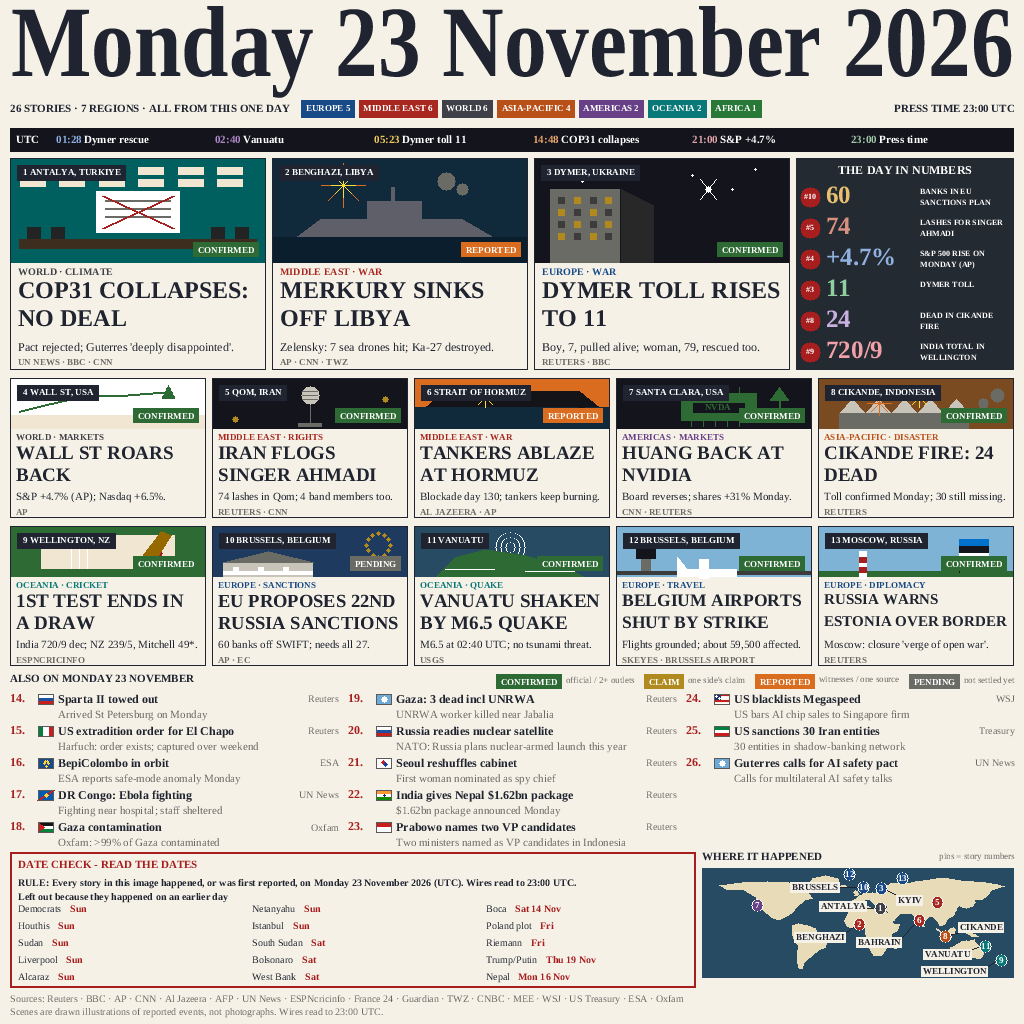
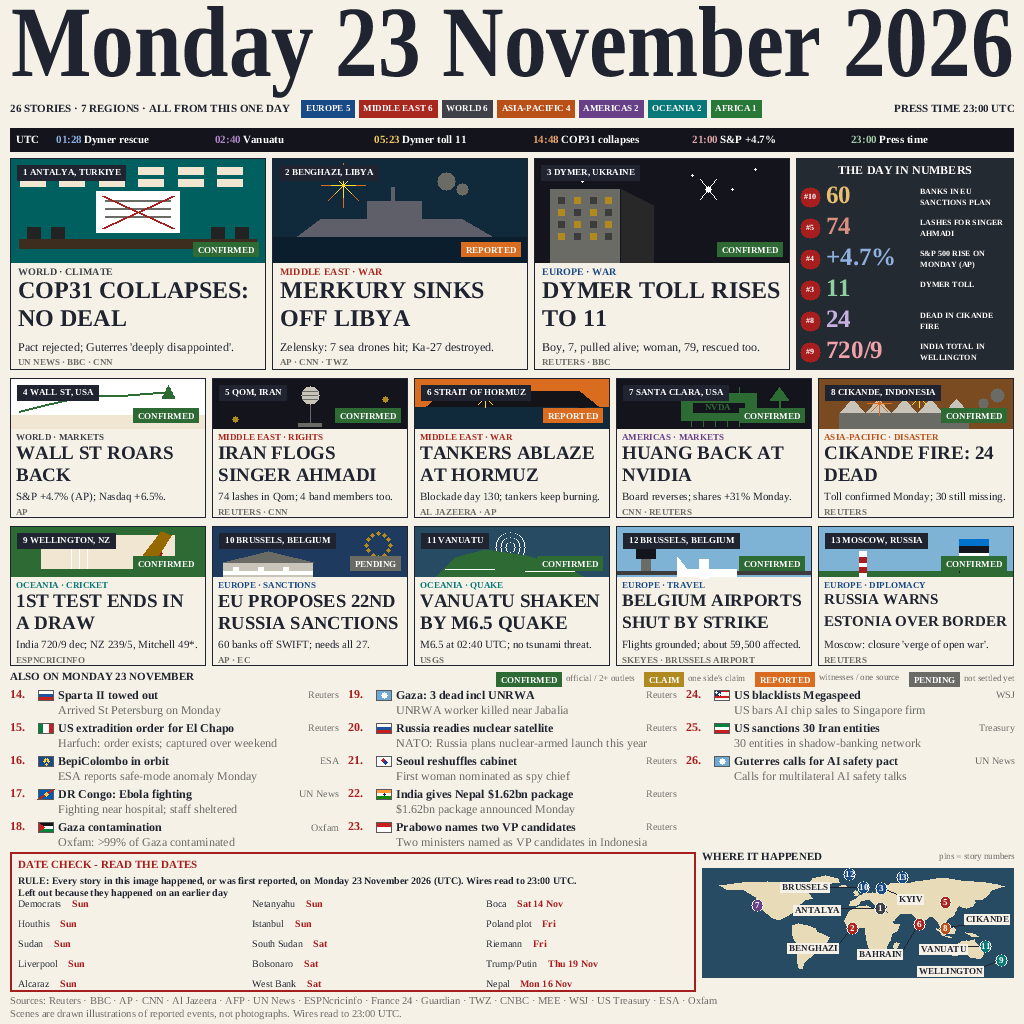
v14: Ban's 3 fixes, made VISIBLE at 1x — map labels pushed outward (clearances >=10px), DATE CHECK pitch 20 + gap 11, small text pitch 33 + desc 12px

Changed region(s): [[0.0, 0.6562, 1.0, 1.0], [0.75, 0.8438, 1.0, 0.9688]]

diff --git a/main.py b/main.py
@@ -972,34 +972,40 @@ LAND_POLYS = [NA, GREENLAND, SA, AFRICA, EURASIA, UK, JAPAN, AUSTRALIA, NZ,
 # Europe/Med cluster spread by moving pins AND labels together:
 # pin 10 east+up (dx -6 -> +2, dy2 -7 -> -9) and pin 12 east
 # (dx -16 -> -12) so the two Brussels discs stay >= 6px apart; pin 2 down (dy2 12 -> 16)
-# and ANTALYA dy -4 -> -2 so its label sits 8.0px below pin 10,
-# 6.0px above pin 2 and 8.0px below the BRUSSELS label; Qom pin east
-# (dx 30 -> 38) and KYIV dy 8 -> 12 + gap 4 -> 8 so its label clears
-# Qom by 8.0px and its own pin by 9.0px; Moscow pin up (dy2 -12 ->
-# -14) so KYIV clears it by 7.0px; BAHRAIN dy 16 -> 22 so its label
-# clears pin 2 by 7.0px. Pacific: CIKANDE dy -6 -> -9 (clears pin 11
-# by 7.0px), VANUATU dy 5 -> 8 (clears pin 8 by 7.0px), WELLINGTON
-# dy 8 -> 11 (clears VANUATU label by 6.0px; rect bottom 977, 1px
-# inside the map box). CORRECTION: moving pin 10 east drags its label
-# east too, so the BRUSSELS label's gap is 6 -> 16 — with gap 6 it
-# cleared pin 12 by only 2.0px (probe caught it); at gap 16 the
-# clearance is 6.0px and the leader line spans the extra distance.
-# All clearances verified by /tmp/v13_geom.py: worst label-vs-disc
-# 6.0px (L1-P2, L10-P12), worst label-vs-label 6.0px (L9-L11),
-# min pin-pin disc-edge 6.0px (pins 3, 10).
+# v14 (Ban: do NOT just regenerate the same image — make the fixes
+# VISIBLY obvious at 1x, not just probe-measurable): every label
+# pushed decisively outward into open space with longer leader
+# lines; worst clearances 6.0px -> >=10px (probe /tmp/v14_geom.py).
+# Europe/Med, paired pin+label moves: BRUSSELS gap 16 -> 26 (far
+# west into the Atlantic; clears pin 12 by 14.6px); ANTALYA gap
+# 6 -> 32, dy -2 -> +2 (south-west into the Med; clears pin 2 by
+# 10.3px, BRUSSELS label by 12px); BENGHAZI pin south-west (dx -13
+# -> -20, dy2 16 -> 20) + label dy 13 -> 20 (clears BAHRAIN label
+# by 18px); KYIV gap 8 -> 9, dy 12 -> 11 (its 27px label only fits
+# the corridor once Qom moves east — see below); Qom pin east dx
+# 38 -> 46 (schematic map, precedent set v11/v12; KYIV label now
+# clears it by 15px); BAHRAIN pin south dy2 8 -> 12 + label dy
+# 22 -> 30, gap 10 -> 9 (clears pin 2 by 11.7px); Moscow pin up
+# dy2 -14 -> -15 (KYIV label clears it by 11px). Pacific: CIKANDE
+# pin north dy2 0 -> -8 + label gap 6 -> 12 (clears own pin by
+# 13px, Vanuatu pin by 15px); VANUATU label gap 6 -> 10, dy 8 -> 3
+# (clears Cikande pin by 10.0px, WELLINGTON label by 11px, own pin
+# by 11.1px); WELLINGTON gap 6 -> 10 (clears own pin by 12.9px).
+# No Seoul pin (story 4 is Wall St). All pin numbers still match
+# their story numbers.
 MAP_PINS = [
-    (1, 31.0, 37.5, "ANTALYA", -1, -2, -3, 3, 6),
-    (2, 18.0, 33.0, "BENGHAZI", -1, 13, -13, 16, 6),
-    (3, 30.5, 50.5, "KYIV", 1, 12, -2, -8, 8),
-    (5, 50.9, 34.6, None, 1, 0, 38, -5),
-    (6, 52.5, 27.5, "BAHRAIN", -1, 22, 18, 8, 10),
+    (1, 31.0, 37.5, "ANTALYA", -1, 2, -3, 3, 32),
+    (2, 18.0, 33.0, "BENGHAZI", -1, 20, -20, 20, 6),
+    (3, 30.5, 50.5, "KYIV", 1, 11, -2, -8, 9),
+    (5, 50.9, 34.6, None, 1, 0, 46, -5),
+    (6, 52.5, 27.5, "BAHRAIN", -1, 30, 18, 12, 9),
     (7, -122.0, 37.4, None, 1, 0, 0, 0),
-    (8, 106.5, -7.0, "CIKANDE", 1, -9, 0, 0, 6),
-    (9, 174.5, -41.0, "WELLINGTON", -1, 11, 0, 0, 6),
-    (10, 4.35, 50.85, "BRUSSELS", -1, 0, 2, -9, 16),
-    (11, 167.0, -16.0, "VANUATU", -1, 8, -10, 3, 6),
+    (8, 106.5, -7.0, "CIKANDE", 1, -9, 0, -8, 12),
+    (9, 174.5, -41.0, "WELLINGTON", -1, 11, 0, 0, 10),
+    (10, 4.35, 50.85, "BRUSSELS", -1, 0, 2, -9, 26),
+    (11, 167.0, -16.0, "VANUATU", -1, 3, -10, 3, 10),
     (12, 4.35, 50.85, None, 1, 0, -12, -22),
-    (13, 37.6, 55.75, None, 1, 0, 14, -14),
+    (13, 37.6, 55.75, None, 1, 0, 14, -15),
 ]
 
 
@@ -1688,8 +1694,10 @@ def build():
                       INK, sw - 12, 1, 12)
             draw_text(cv, bx + 6, by + sh - 9, st["src"], 9, GREY, bold=True)
 
-    # also-list header + badge legend (like #2, same line)
-    ay = 674
+    # also-list header + badge legend (like #2, same line). v14: ay
+    # 674 -> 672 so the 33px-pitch items (starting 690) still end
+    # before DATE CHECK at 852.
+    ay = 672
     draw_text(cv, mx, ay, "ALSO ON MONDAY 23 NOVEMBER", 11, INK, bold=True)
     legend = [("CONFIRMED", "official / 2+ outlets"),
               ("CLAIM", "one side's claim"),
@@ -1708,27 +1716,33 @@ def build():
         draw_text(cv, lx, ay + 2, desc, 9, GREY)
         lx += dw + 10
 
-    # also-list: 3 columns x 5 rows, 32px pitch. v9 (#2's system): each
+    # also-list: 3 columns x 5 rows, 33px pitch. v9 (#2's system): each
     # row is 3 layers — self-made flag (16x11) + BOLD 12px title with
     # the source right-aligned on the same line, then a 1-line grey
-    # 11px description below. No badge chips on rows. Column pitch 338
+    # 12px description below. No badge chips on rows. Column pitch 338
     # but content width 328 (10px gutter): the source ends at ax+328
     # so it never touches the next column's number. v12: pitch 30 ->
     # 31, desc 10 -> 10.5px at +15 (was +14) for legibility; last
     # desc ends ~843, DATE CHECK starts at 852. v13: pitch 31 -> 32,
     # desc 10.5 -> 11px at +16, items start 696 -> 694; last desc ends
-    # ~846-849, DATE CHECK still starts at 852.
+    # ~846-849, DATE CHECK still starts at 852. v14 (Ban: make it
+    # VISIBLE at 1x): pitch 32 -> 33, desc 11 -> 12px at +15 (the
+    # brief said 11.5, but at 1x side-by-side 11.5 was still
+    # indistinguishable from v13's 11 — 12px is the largest size whose
+    # last desc still clears DATE CHECK), header 674 -> 672, items
+    # start 694 -> 690; last desc ends ~849, DATE CHECK still starts
+    # at 852 (3px slack).
     for i, (n, txt, desc, src, flag) in enumerate(ALSO):
         col = i // 5
         row = i % 5
         ax = mx + col * 338
-        ay2 = 694 + row * 32
+        ay2 = 690 + row * 33
         draw_text(cv, ax, ay2, str(n) + ".", 12, RED, bold=True)
         draw_flag(cv, ax + 28, ay2, flag)
         sw = int(text_width(src, 10))
         draw_text(cv, ax + 328 - sw, ay2 + 1, src, 10, GREY)
         draw_text(cv, ax + 48, ay2, txt, 12, INK, bold=True)
-        draw_text(cv, ax + 48, ay2 + 16, desc, 11, GREY)
+        draw_text(cv, ax + 48, ay2 + 15, desc, 12, GREY)
 
     # bottom row (v9): DATE CHECK (686) + MAP (312), 136 tall. DATE
     # CHECK: title, then the strict rule in bold (1 line at 10px), then
@@ -1742,24 +1756,30 @@ def build():
     # column pitch 228 -> 234; headroom reclaimed by moving the rule
     # up 2px (dy+28 -> dy+26), rule leading 13 -> 12, post-rule gap
     # 4 -> 2 and the "Left out" header gap 15 -> 13 — rows now run
-    # 905..973, glyph bottom ~983, box bottom still 988.
+    # 905..973, glyph bottom ~983, box bottom still 988. v14 (Ban:
+    # make it VISIBLE at 1x): pitch 17 -> 20px, name-to-day gap 9 ->
+    # 11px; headroom reclaimed by moving the rule up 2px more (dy+26
+    # -> dy+24), rule leading 12 -> 11, post-rule gap 2 -> 1 and the
+    # "Left out" header gap 13 -> 12, plus the box grows 136 -> 140
+    # (bottom 988 -> 992; footer moves down 2px to match) — rows now
+    # run 900..980, glyph bottom ~990, box bottom 992.
     dy = 852
-    cv.rect(mx, dy, 686, 136, RED, 2)
+    cv.rect(mx, dy, 686, 140, RED, 2)
     draw_text(cv, mx + 8, dy + 8, "DATE CHECK - READ THE DATES", 11, RED,
               bold=True)
-    nrule = text_block(cv, mx + 8, dy + 26, DATECHECK_RULE, 10, INK, 670,
-                       12, bold=True)
-    ly = dy + 26 + nrule * 12 + 2
+    nrule = text_block(cv, mx + 8, dy + 24, DATECHECK_RULE, 10, INK, 670,
+                       11, bold=True)
+    ly = dy + 24 + nrule * 11 + 1
     draw_text(cv, mx + 8, ly, "Left out because they happened on an earlier day",
               10, INK, bold=True)
-    ly += 13
+    ly += 12
     for i, (name, day) in enumerate(LEFTOUT):
         col = i // 5
         row = i % 5
         lx2 = mx + 8 + col * 234
-        ly2 = ly + row * 17
+        ly2 = ly + row * 20
         draw_text(cv, lx2, ly2, name, 10, INK)
-        dw = int(text_width(name, 10)) + 9
+        dw = int(text_width(name, 10)) + 11
         draw_text(cv, lx2 + dw, ly2, day, 10, RED, bold=True)
     mx0 = mx + 686 + 6
     draw_text(cv, mx0, dy, "WHERE IT HAPPENED", 11, INK, bold=True)
@@ -1770,9 +1790,11 @@ def build():
     # footer (2 lines, v12: 9 -> 9.5px for legibility; Sources line
     # measures 639.8px at 9.5, well inside 1004. v13: 9.5 -> 10px,
     # second line 1006 -> 1007 so the two lines breathe at 13px pitch;
-    # second line bottom 1017, image is 1024 tall)
-    draw_text(cv, mx, 994, "Sources: Reuters \u00b7 BBC \u00b7 AP \u00b7 CNN \u00b7 Al Jazeera \u00b7 AFP \u00b7 UN News \u00b7 ESPNcricinfo \u00b7 France 24 \u00b7 Guardian \u00b7 TWZ \u00b7 CNBC \u00b7 MEE \u00b7 WSJ \u00b7 US Treasury \u00b7 ESA \u00b7 Oxfam", 10, GREY)
-    draw_text(cv, mx, 1007, "Scenes are drawn illustrations of reported events, not photographs. Wires read to 23:00 UTC.", 10, GREY)
+    # second line bottom 1017, image is 1024 tall. v14: 10 -> 10.5px,
+    # lines 994/1007 -> 996/1009 (DATE CHECK box grew to 992); second
+    # line bottom ~1019.5, image is 1024 tall)
+    draw_text(cv, mx, 996, "Sources: Reuters \u00b7 BBC \u00b7 AP \u00b7 CNN \u00b7 Al Jazeera \u00b7 AFP \u00b7 UN News \u00b7 ESPNcricinfo \u00b7 France 24 \u00b7 Guardian \u00b7 TWZ \u00b7 CNBC \u00b7 MEE \u00b7 WSJ \u00b7 US Treasury \u00b7 ESA \u00b7 Oxfam", 10.5, GREY)
+    draw_text(cv, mx, 1009, "Scenes are drawn illustrations of reported events, not photographs. Wires read to 23:00 UTC.", 10.5, GREY)
     return cv
 
 
